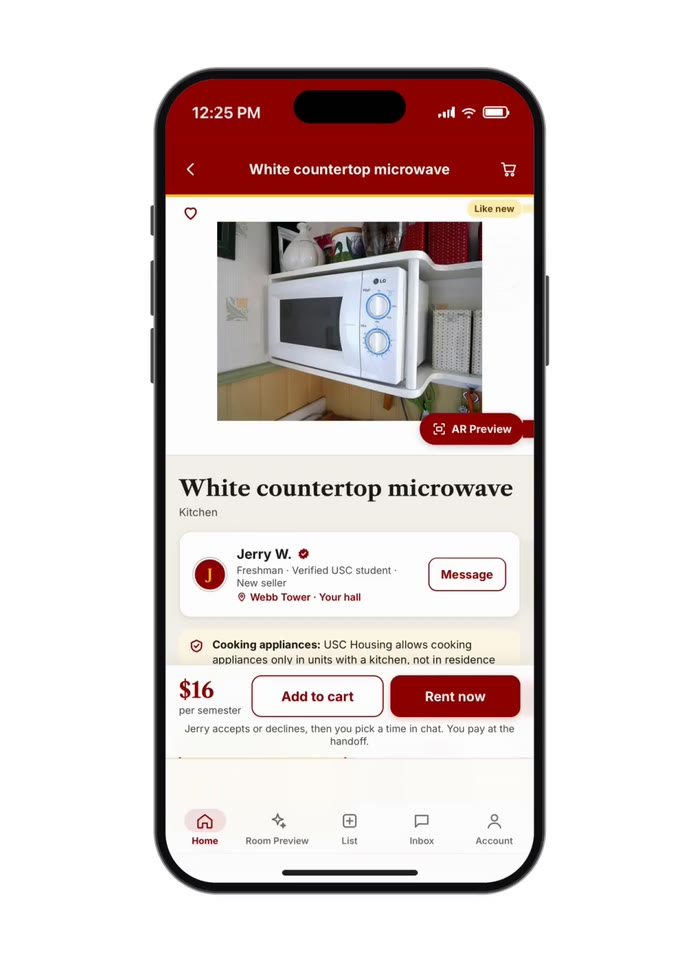
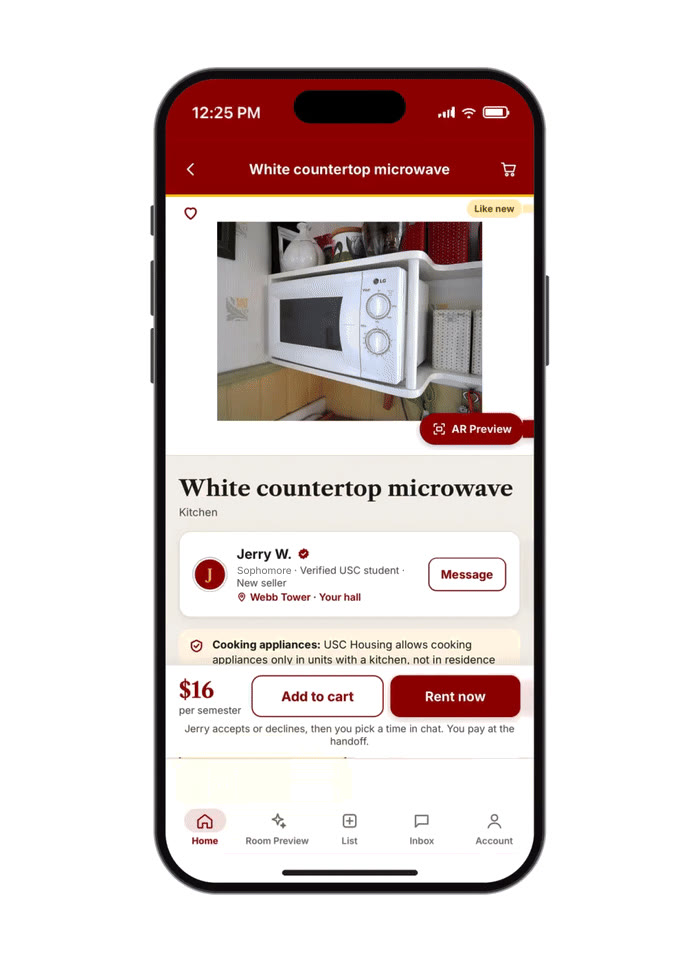
TroShare demos: Thomas D. and Jerry W. are sophomores

diff --git a/index.html b/index.html
@@ -388,13 +388,13 @@
                 <p>Students browse dorm essentials on an interactive map of USC residence halls, filter by category, and rent by the semester or academic year from someone a short walk away.</p>
               </div>
               <figure class="fold-media staso-media troshare-phone">
-                <img class="scroll-gif" src="assets/troshare-map-poster.jpg?v=6" data-gif="assets/troshare-map.gif?v=6" alt="Browsing TroShare listings on the USC residence hall map" />
+                <img class="scroll-gif" src="assets/troshare-map-poster.jpg?v=7" data-gif="assets/troshare-map.gif?v=7" alt="Browsing TroShare listings on the USC residence hall map" />
               </figure>
             </section>
 
             <section class="fold-feature">
               <figure class="fold-media staso-media troshare-phone">
-                <img class="scroll-gif" src="assets/troshare-room-poster.jpg?v=8" data-gif="assets/troshare-room.gif?v=8" alt="Room Preview: Claude recommends a floor lamp for a photographed room and places it in the photo" />
+                <img class="scroll-gif" src="assets/troshare-room-poster.jpg?v=9" data-gif="assets/troshare-room.gif?v=9" alt="Room Preview: Claude recommends a floor lamp for a photographed room and places it in the photo" />
               </figure>
               <div class="fold-copy">
                 <h3>Plan Your Room with AI</h3>
@@ -408,13 +408,13 @@
                 <p>AR Preview places a life-size 3D model of the item in the student’s room through their phone camera, so they can check size and fit before committing to a rental.</p>
               </div>
               <figure class="fold-media staso-media troshare-phone">
-                <img class="scroll-gif" src="assets/troshare-ar-poster.jpg?v=9" data-gif="assets/troshare-ar.gif?v=9" alt="AR Preview placing a storage cart in a dorm room" />
+                <img class="scroll-gif" src="assets/troshare-ar-poster.jpg?v=10" data-gif="assets/troshare-ar.gif?v=10" alt="AR Preview placing a storage cart in a dorm room" />
               </figure>
             </section>
 
             <section class="fold-feature">
               <figure class="fold-media staso-media troshare-phone">
-                <img class="scroll-gif" src="assets/troshare-msg-poster.jpg?v=12" data-gif="assets/troshare-msg.gif?v=12" alt="Choosing rental options for a quiet tower fan, then messaging the Trojan seller" />
+                <img class="scroll-gif" src="assets/troshare-msg-poster.jpg?v=13" data-gif="assets/troshare-msg.gif?v=13" alt="Choosing rental options for a quiet tower fan, then messaging the Trojan seller" />
               </figure>
               <div class="fold-copy">
                 <h3>Talk to the Trojan selling it</h3>
@@ -428,7 +428,7 @@
                 <p>Renters choose a semester or full year and pickup or delivery, then send a request. The seller accepts or declines, and the order page shows each step, from requested to accepted, handed off and returned.</p>
               </div>
               <figure class="fold-media staso-media troshare-phone">
-                <img class="scroll-gif" src="assets/troshare-request-poster.jpg?v=4" data-gif="assets/troshare-request.gif?v=4" alt="Requesting to rent a microwave in TroShare and seeing the order progress" />
+                <img class="scroll-gif" src="assets/troshare-request-poster.jpg?v=5" data-gif="assets/troshare-request.gif?v=5" alt="Requesting to rent a microwave in TroShare and seeing the order progress" />
               </figure>
             </section>
 
